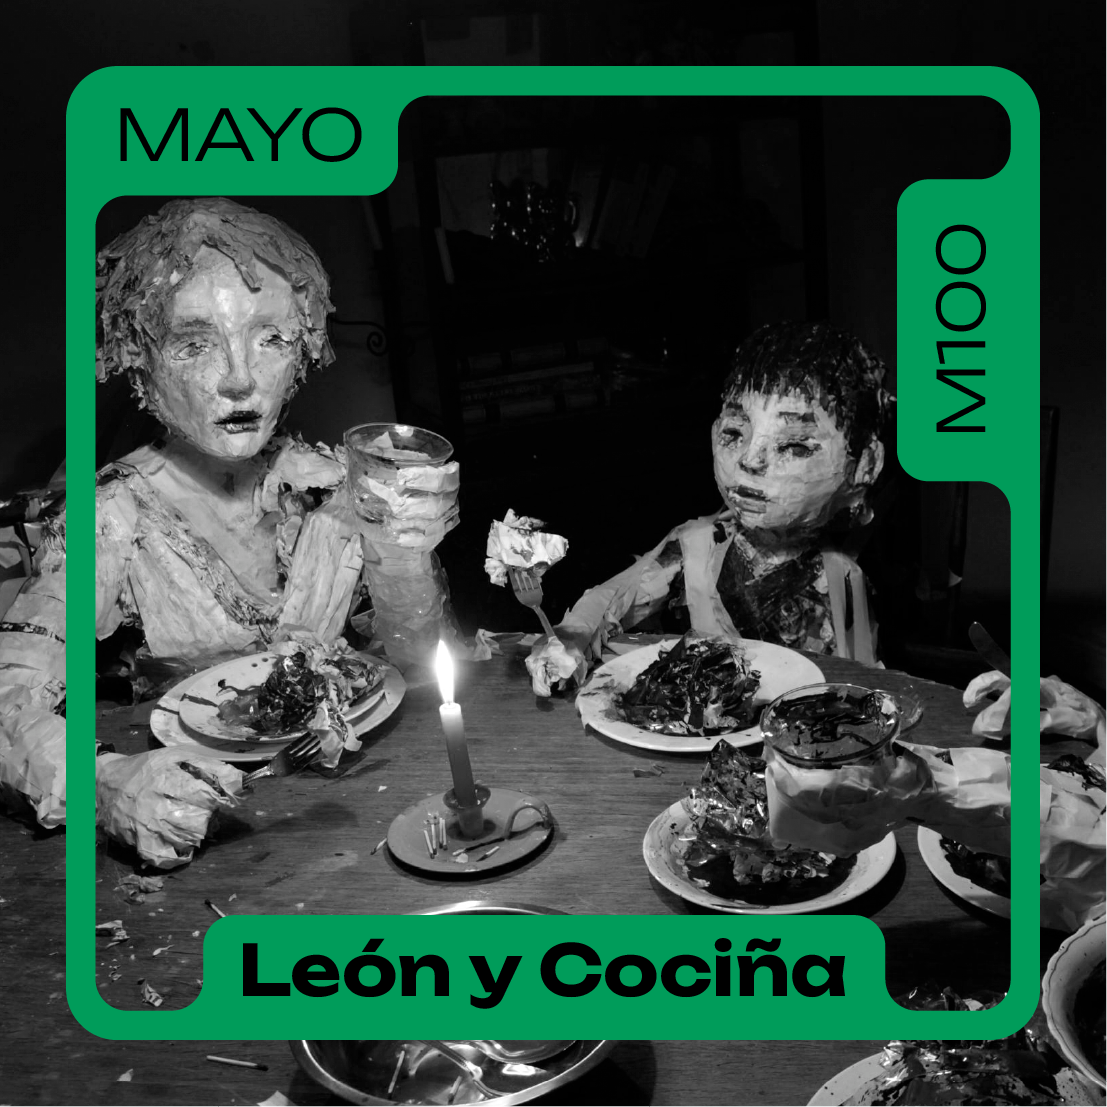
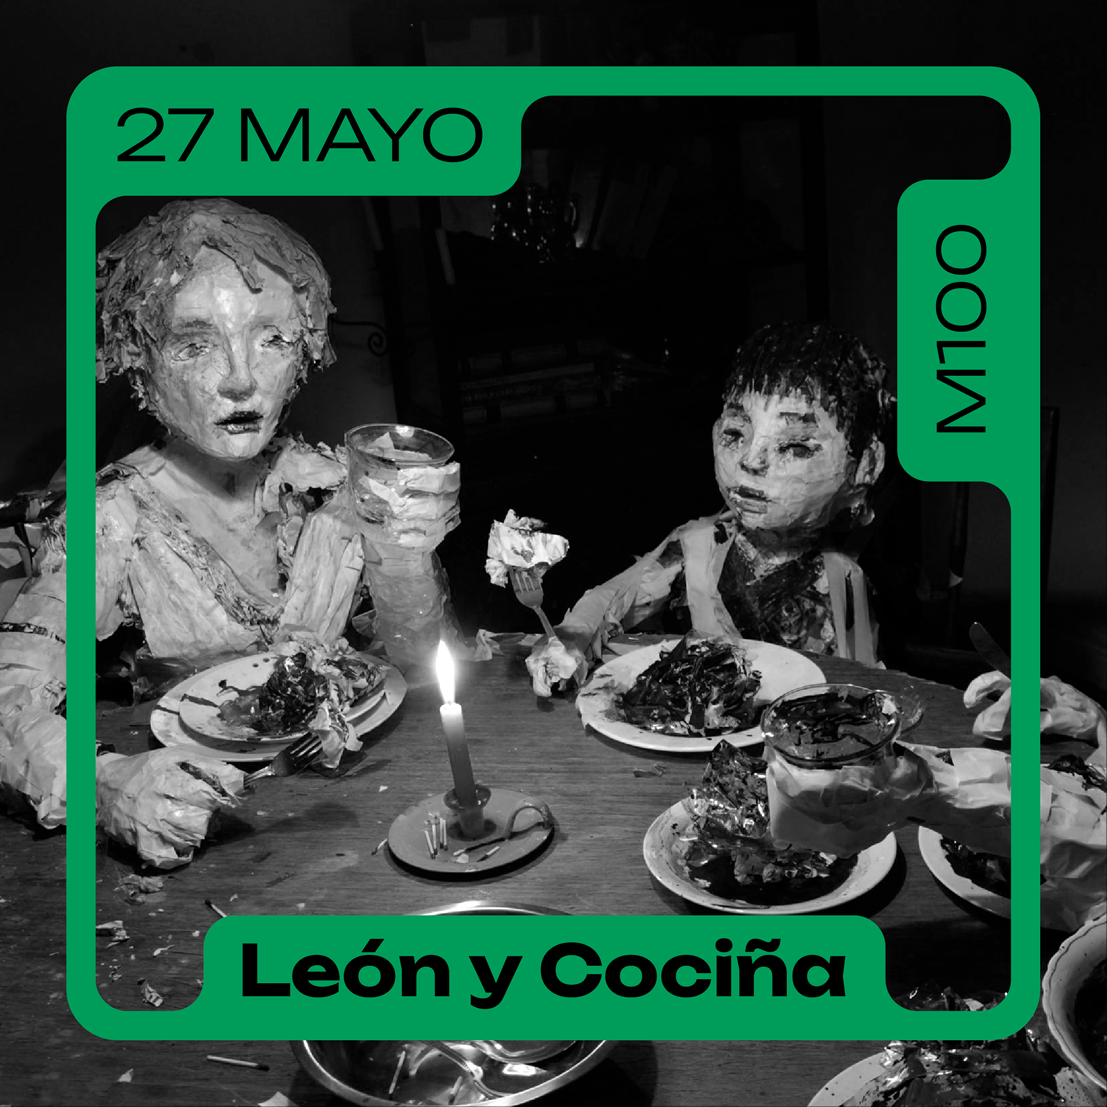
update programacion

diff --git a/src/componentes/Section3.js b/src/componentes/Section3.js
@@ -90,19 +90,20 @@ function Section({ minHeight }) {
            
         </div>
 
-        <div className="relative p-0 md:p-10 lg:p-10 xl:p-10">
+        <div className="relative p-0 sd:p-5 md:p-5 lg:p-5 xl:p-5 ">
           <img src="images/programacion/p1.png" alt="Imagen" className="w-full" />
-          <div className="m-0 md:m-5 lg:m-5 xl:m-5  absolute inset-0 flex flex-col justify-center items-center opacity-0 hover:opacity-100 transition-opacity duration-300 bgTGreen bg-opacity-100 text-black">
+          <div className="m-0 sd:m-5 md:m-5 lg:m-5 xl:m-5 absolute inset-0 flex flex-col justify-center items-center opacity-0 hover:opacity-100 transition-opacity duration-300 bgTGreen bg-opacity-100 text-black">
           <div className="text-center w-full h-full px-3 sd:px-7 md:px-7 lg:px-7  py-3 sd:py-7 md:py-7 lg:py-7 xl:py-7">
               <div>
               <h1 className="text-normal sd:text-3xl md:text-3xl lg:text-3xl xl:text-3xl text-left font-bold font-unbounded ">
-              MATUCANA100</h1>
+              LEÓN & COCIÑA EN M100</h1>
               <h2 className="text-normal sd:text-3xl md:text-3xl lg:text-3xl xl:text-3xl text-left font-medium font-unbounded ">
-              Quinta normal.
+              Estación Central.
               </h2>
               <br className="xs:block sd:block sm:hidden md:hidden lg:hidden "/>
               <p className="text-xs mt-0 sd:text-xl md:text-xl  lg:textxl xl:text-xl text-left font-libre-franklin sd:mt-6 md:mt-4 lg:mt-6 xl:mt-9">
-              Reconocidos internacionalmente por su trabajo en animación y videoarte, Cristóbal León y Joaquín Cociña nos invitan a conocer el set de su nueva película en Matucana 100. La jornada cerrará con una selección especial de su música.
+              <strong>Artes visuales y cine.</strong><br/>
+              Reconocidos internacionalmente por su trabajo en animación y videoarte, Cristóbal León y Joaquín Cociña nos invitan a recorrer el set de su nueva película “La Plaga". Cerraremos la noche con una especial selección de música.
                 </p>
               </div>
               <a href="#tickets"><button className="absolute bottom-0 left-0 mx-7 my-7 flex items-center justify-center px-6 py-1 text-black text-normal sd:text-normal md:text-2xl lg:text-2xl xl:text-2xl font-bold rounded-full border-2 border-black mt-4 font-unbounded hover:text-white hover:border-white">
@@ -114,20 +115,19 @@ function Section({ minHeight }) {
             </div>
           </div>
         </div>
-        <div className="relative p-0 md:p-10 lg:p-10 xl:p-10">
+        <div className="relative p-0 sd:p-5 md:p-5 lg:p-5 xl:p-5">
           <img src="images/programacion/p2.png" alt="Imagen" className="w-full" />
-          <div className="m-0 md:m-5 lg:m-5 xl:m-5  absolute inset-0 flex flex-col justify-center items-center opacity-0 hover:opacity-100 transition-opacity duration-300 bgTRed bg-opacity-100 text-black">
+          <div className="m-0 sd:m-5 md:m-5 lg:m-5 xl:m-5 absolute inset-0 flex flex-col justify-center items-center opacity-0 hover:opacity-100 transition-opacity duration-300 bgTGreen bg-opacity-100 text-black">
           <div className="text-center w-full h-full px-3 sd:px-7 md:px-7 lg:px-7  py-3 sd:py-7 md:py-7 lg:py-7 xl:py-7">
               <div>
               <h1 className="text-normal sd:text-3xl md:text-3xl lg:text-3xl xl:text-3xl text-left font-bold font-unbounded ">
               CAMILA LOBOS EN SALA DE ARTE CCU</h1>
               <h2 className="text-normal sd:text-3xl md:text-3xl lg:text-3xl xl:text-3xl text-left font-medium font-unbounded ">
-              Las Condes</h2>
+              Las Condes.</h2>
               <br className="xs:block sd:block sm:hidden md:hidden lg:hidden "/>
               <p className="text-xs mt-0 sd:text-xl md:text-xl  lg:textxl xl:text-xl text-left font-libre-franklin sd:mt-6 md:mt-4 lg:mt-6 xl:mt-9">
-              <b>Instalación inmersiva</b>.<br/>
-              Sumérgete en un bosque flotante de árboles secos y raíces que te lleva a despertar emociones y reflexiones sobre los territorios en los que vivimos.
-              <br/>Música por confirmar.
+              <b>Instalación inmersiva.</b><br/>
+              Sumérgete en un bosque flotante de árboles y raíces que te llevará a despertar reflexiones sobre los lugares en los que vivimos. Finalizaremos con un set de música conectado al trabajo de Camila.
                 </p>
               </div>
               <a href="#tickets"><button className="absolute bottom-0 left-0 mx-7 my-7 flex items-center justify-center px-6 py-1 text-black text-normal sd:text-normal md:text-2xl lg:text-2xl xl:text-2xl font-bold rounded-full border-2 border-black mt-4 font-unbounded hover:text-white hover:border-white">
@@ -139,20 +139,19 @@ function Section({ minHeight }) {
             </div>
           </div>
         </div>
-        <div className="relative  p-0 md:p-10 lg:p-10 xl:p-10">
+        <div className="relative p-0 sd:p-5 md:p-5 lg:p-5 xl:p-5">
           <img src="images/programacion/p3.png" alt="Imagen" className="w-full" />
-          <div className="m-0 md:m-5 lg:m-5 xl:m-5  absolute inset-0 flex flex-col justify-center items-center opacity-0 hover:opacity-100 transition-opacity duration-300 bgTPink bg-opacity-100 text-black">
+          <div className="m-0 sd:m-5 md:m-5 lg:m-5 xl:m-5 absolute inset-0 flex flex-col justify-center items-center opacity-0 hover:opacity-100 transition-opacity duration-300 bgTGreen bg-opacity-100 text-black">
           <div className="text-center w-full h-full px-3 sd:px-7 md:px-7 lg:px-7  py-3 sd:py-7 md:py-7 lg:py-7 xl:py-7">
           <div>
               <h1 className="text-normal sd:text-3xl md:text-3xl lg:text-3xl xl:text-3xl text-left font-bold font-unbounded ">
-              ARTISTAS DEL TALLER POCURO</h1>
+              ARTE JOVEN EN CENTRO PERDIDO</h1>
               <h2 className="text-normal sd:text-3xl md:text-3xl lg:text-3xl xl:text-3xl text-left font-medium font-unbounded ">
-              Providencia</h2>
+              Recoleta.</h2>
               <br className="xs:block sd:block sm:hidden md:hidden lg:hidden "/>
               <p className="text-xs mt-0 sd:text-xl md:text-xl  lg:textxl xl:text-xl text-left font-libre-franklin sd:mt-6 md:mt-4 lg:mt-6 xl:mt-9">
-              <b>Isidora Villarino, Jacinta Besa, Colomba Fontaine, Josefina Valenzuela, Macarena Jofré, Maite Zubizarreta y Sergio Loayza.</b>
-&nbsp;Siete artistas te invitan a conocer su intimidad y espacio creativo para conocer sus inspiraciones y obras de arte.
-<br/>Música por confirmar.
+              <b>Artistas emergentes.</b><br/>
+              Dentro de una antigua fábrica, este espacio independiente reúne galerías, talleres y residencias, mostrando lo más reciente del arte. Visitaremos a Isidora Miller en Galería Cripta y disfrutaremos de un increíble DJ set.
                 </p>
               
               </div>
